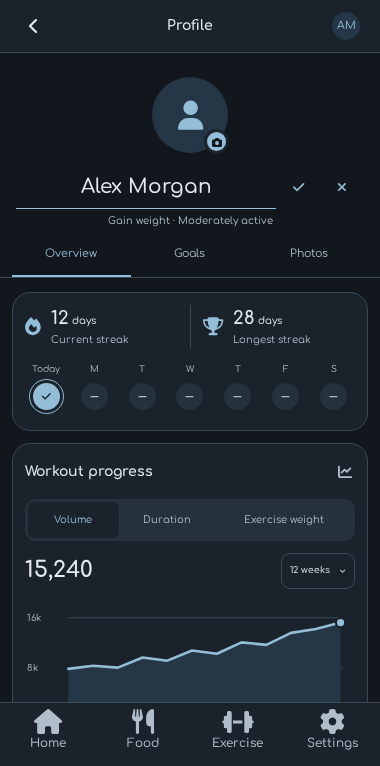
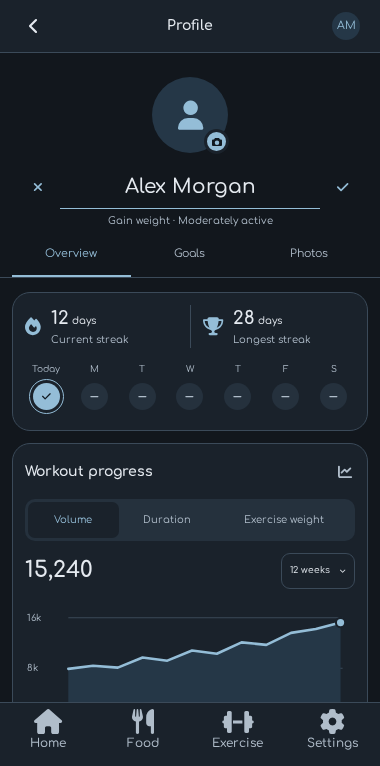
Center Profile name editing and camera drawing

diff --git a/src/profile/profile-identity.tsx b/src/profile/profile-identity.tsx
@@ -1,6 +1,7 @@
 import { Image } from "expo-image";
 import { useEffect, useRef, useState } from "react";
 import { Platform, Pressable, View } from "react-native";
+import Svg, { Path } from "react-native-svg";
 import { AppText } from "../components/ui";
 import { DeleteButton } from "../components/delete-button";
 import { FoodButton } from "../food/food-button";
@@ -171,19 +172,13 @@ export function ProfileIdentity() {
             justifyContent: "center",
           }}
         >
-          <Icon
-            name="camera"
-            size={10}
-            color={colors.primaryForeground}
-            style={{
-              width: 14,
-              height: 14,
-              lineHeight: 14,
-              textAlign: "center",
-              textAlignVertical: "center",
-              includeFontPadding: false,
-            }}
-          />
+          <Svg width={12} height={12} viewBox="0 0 24 24" aria-hidden>
+            <Path
+              fill={colors.primaryForeground}
+              fillRule="evenodd"
+              d="M8 4h8l2 3h2a2 2 0 0 1 2 2v9a2 2 0 0 1-2 2H4a2 2 0 0 1-2-2V9a2 2 0 0 1 2-2h2l2-3Zm4 5a4.5 4.5 0 1 0 0 9 4.5 4.5 0 0 0 0-9Z"
+            />
+          </Svg>
         </View>
       </Pressable>
       <ProfileName />

diff --git a/src/profile/profile-name.tsx b/src/profile/profile-name.tsx
@@ -99,6 +99,7 @@ export function ProfileName() {
       >
         {editing ? (
           <>
+            {action("Cancel name editing", "xmark", cancel, profile.saving)}
             <TextInput
               accessibilityLabel="Profile name"
               value={draft}
@@ -140,7 +141,6 @@ export function ProfileName() {
               () => void save(),
               profile.saving,
             )}
-            {action("Cancel name editing", "xmark", cancel, profile.saving)}
           </>
         ) : (
           <>

diff --git a/docs/superpowers/reviews/2026-10-04-profile-identity-cleanup.md b/docs/superpowers/reviews/2026-10-04-profile-identity-cleanup.md
@@ -4,12 +4,14 @@ Removed the three captions marked in the user's screenshot: the streak
 explanation, workout unit/latest-week caption, and completed-workout/empty-range
 footer. Removed the identity's Edit profile button and its navigation callback.
 
-A small pencil beside the name now opens an underlined name field in place.
+A small pencil beside the name now opens an underlined name field in place,
+centered beneath the avatar, with Cancel on the left and Save on the right.
 Checkmark or keyboard Done saves; the cross or Escape cancels. Saving validates
 the existing name rules and updates only the name in the current saved profile.
 Failures preserve the draft for retry, pending saves block duplicate writes,
 and editing keeps the selected Profile section. Other goal editors remain
-available. The camera icon has an explicit centered glyph box inside its badge.
+available. The camera uses a centered SVG drawing inside its badge to remove
+icon-font baseline offsets.
 
 Validation completed:
 
@@ -20,6 +22,9 @@ Validation completed:
   passed. Coverage includes cancel/save/reload, validation, failed-write retry,
   pending section saves, duplicate prevention, 320px width, underline styling,
   and camera centering.
+- The subsequent alignment revision passed the same four focused name tests
+  and visual capture, with geometric checks for name centering, left/right
+  actions at 320px and 390px widths, and the camera's visible drawing bounds.
 - TypeScript with unused-local/parameter checks passed.
 - Web, iOS, and Android exports passed.
 - Android emulator showed the pencil, underlined input, keyboard and save/cancel

diff --git a/docs/superpowers/specs/2026-10-04-profile-page-design.md b/docs/superpowers/specs/2026-10-04-profile-page-design.md
@@ -58,9 +58,11 @@ The selected Personal journal composition has a centered profile photo, name,
 and goal/activity summary above three sections: Overview, Goals,
 and Photos. These are sections within Profile, not additional app tabs.
 The name has a small pencil beside it. Pressing the pencil opens an underlined
-name field in place, with save/cancel actions, without switching sections. The
+name field centered beneath the avatar, with Cancel on the left and Save on the
+right, without switching sections. The
 former Edit profile action and its route to the Goals name editor are removed.
-The profile-photo camera glyph is centered within its circular badge.
+The profile-photo camera uses an SVG drawing centered within its circular badge
+so its alignment does not depend on icon-font baselines.
 
 - Overview: current/longest streaks and the current Sunday-to-Saturday week,
   the workout progress graph, a compact link to today's nutrition under Goals,
